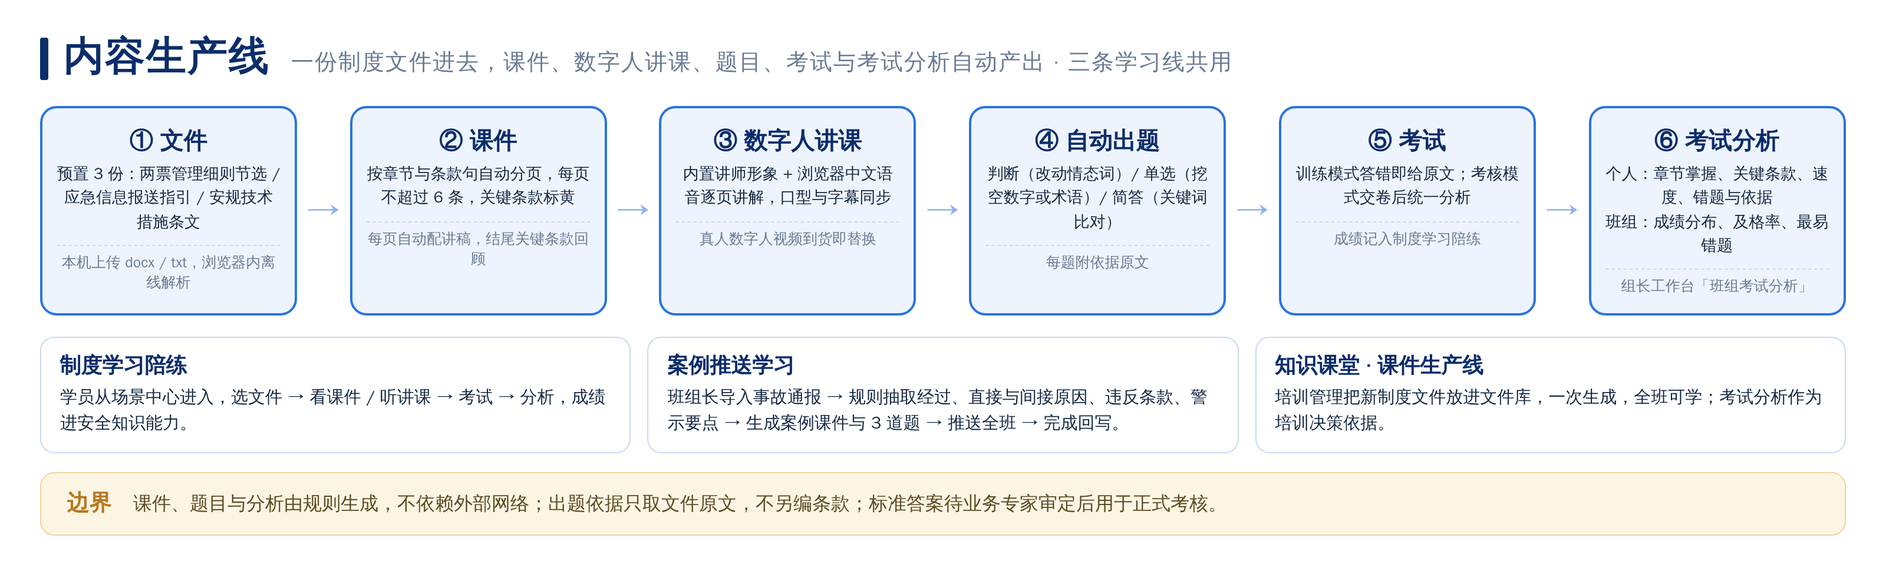
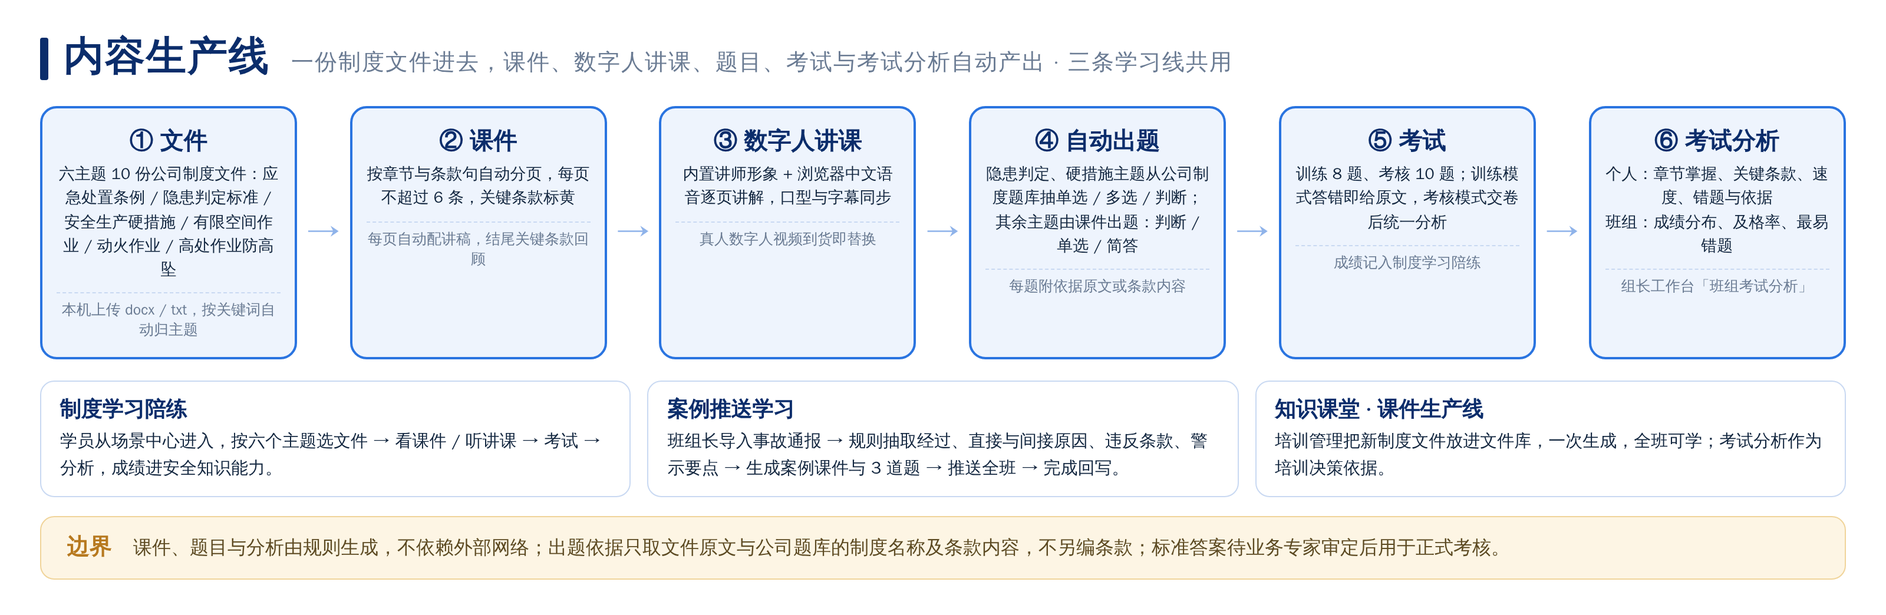
陪练架构图按 10/2 口径更新重渲染（35 项指标 / 四分组 / 题库 9324 题 / 六主题文件）；陪练 PPT V4 生图改为安全色编辑式拼贴（docs/06、docs/02 第 69 条 ⑩）
Claude-Session: https://claude.ai/code/session_01WkwtRBhr3xVnGf8uEM4Pxz

diff --git a/xiaowatt/peilian/diagrams/arch.html b/xiaowatt/peilian/diagrams/arch.html
@@ -9,11 +9,11 @@
 .ai b{font-size:20px;font-weight:800;color:var(--gold);white-space:nowrap}.ai span{font-size:16.5px;color:#5c4a22}
 .arrow{text-align:center;color:#8fb3ea;font-size:22px;line-height:1;margin:-6px 0 8px}
 </style></head><body><div class="board" id="board">
-<div class="ttl"><h1>安全学习智能陪练 总体架构</h1><span>六个陪练场景 · 四个能力维度 · 一条内容生产线 · 两级视角</span></div>
+<div class="ttl"><h1>安全学习智能陪练 总体架构</h1><span>六个陪练场景按四个能力分组 · 35 项指标汇成四维度与成熟度 · 一条内容生产线 · 两级视角</span></div>
 <div class="layer user"><h3>使用者<em>学员为主 · 班组长复核与下发</em></h3><div class="row c3"><div class="chip">学员<small>变电 / 配网一线生产人员</small></div><div class="chip">班组长<small>管理视角：复核 · 下发任务 · 导入通报</small></div><div class="chip">培训管理与系统管理<small>权限与口径（展示）</small></div></div></div>
-<div class="layer"><h3>应用层<em>十一个页面</em></h3><div class="row"><div class="row c6" style="margin-bottom:10px"><div class="chip hl">工作台</div><div class="chip hl">场景中心<small>六个陪练场景</small></div><div class="chip">AI 测评<small>个人评估报告</small></div><div class="chip">数据分析<small>班组横向对比</small></div><div class="chip">评分复盘</div><div class="chip">成长档案</div></div><div class="row c5"><div class="chip">知识课堂<small>课件生产线</small></div><div class="chip">案例推送学习</div><div class="chip">管理视角<small>组长工作台</small></div><div class="chip">系统与权限</div><div class="chip mute">讲师演示台<small>评审现场控制入口</small></div></div></div></div>
-<div class="layer"><h3>引擎层<em>规则引擎 · 离线可运行</em></h3><div class="row"><div class="row c6" style="margin-bottom:10px"><div class="chip hl">操作票判卷<small>步骤匹配 → 阶段 → 顺序 → 漏项 → 文字 → 危险</small></div><div class="chip hl">应急处置计分<small>要点 · 事例纠错 · 报送</small></div><div class="chip">安规知识<small>条文出题 · 依据指认</small></div><div class="chip">保命技能<small>排序 · 填空 · 禁止事项</small></div><div class="chip">案例分析<small>原因 · 违规 · 教训</small></div><div class="chip">制度学习<small>走内容生产线</small></div></div><div class="row c4"><div class="chip hl">内容生产线<small>文件 → 课件 → 讲课 → 出题 → 考试 → 分析</small></div><div class="chip">数字人讲师<small>内置形象 + 中文语音 · 真人视频接口</small></div><div class="chip">能力计算<small>六场景 25 项指标 → 四维度 → 成熟度</small></div><div class="chip">上传解析<small>Word / Excel / 文本 · 浏览器内离线</small></div></div></div></div>
-<div class="ai"><b>由人确认</b><span>成熟度分级、判卷标注、应急事例与四个新场景的标准答案均由本平台按安规、导则、处置卡拟定，经业务专家确认后使用；涉及人员能力的结论由班组长确认</span></div>
-<div class="layer"><h3>知识与数据层<em>全部脱敏 · 本机留痕</em></h3><div class="row c9"><div class="chip">安规 · 导则<small>19 条真实条文</small></div><div class="chip">标准操作票<small>58 行 · 7 个屏柜附表</small></div><div class="chip">应急处置卡<small>17 类 · 21 个情境</small></div><div class="chip">制度文件库<small>预置 3 份 + 上传</small></div><div class="chip">案例库<small>4 个 + 推送案例</small></div><div class="chip">演练记录<small>六场景 · 近 30 天</small></div><div class="chip">培训任务<small>下发 · 完成回写</small></div><div class="chip">考试记录<small>个人 · 班组</small></div><div class="chip">课件 · 题库<small>自动生成</small></div></div></div>
-<div class="layer ext"><h3>外部对接<em>评优后按公司要求确定</em></h3><div class="row c4"><div class="chip src">人工智能知识课堂<small>课程 · 题库 · 学时回写</small></div><div class="chip src">人资系统<small>作业授权 · 培训台账</small></div><div class="chip src">真人数字人视频<small>讲课片段到货即接入</small></div><div class="chip src">制度文件库<small>两票细则 · 报送指引 · 安规</small></div></div></div>
+<div class="layer"><h3>应用层<em>十一个页面</em></h3><div class="row"><div class="row c6" style="margin-bottom:10px"><div class="chip hl">工作台</div><div class="chip hl">场景中心<small>六个场景四个分组 · 专业切换</small></div><div class="chip">AI 测评<small>个人评估报告</small></div><div class="chip">数据分析<small>班组横向对比</small></div><div class="chip">评分复盘</div><div class="chip">成长档案</div></div><div class="row c5"><div class="chip">知识课堂<small>课件生产线</small></div><div class="chip">案例推送学习</div><div class="chip">管理视角<small>组长工作台</small></div><div class="chip">系统与权限</div><div class="chip mute">讲师演示台<small>评审现场控制入口</small></div></div></div></div>
+<div class="layer"><h3>引擎层<em>规则引擎 · 离线可运行</em></h3><div class="row"><div class="row c6" style="margin-bottom:10px"><div class="chip hl">操作票判卷<small>步骤匹配 → 阶段 → 顺序 → 漏项 → 文字 → 危险</small></div><div class="chip hl">应急处置计分<small>要点 · 事例纠错 · 报送</small></div><div class="chip">安规知识<small>公司题库抽题 · 依据指认 · 错题复练</small></div><div class="chip">保命技能<small>题库保命题型 · 六类计入雷达</small></div><div class="chip">案例分析<small>小 / 大案例逐题作答</small></div><div class="chip">制度学习<small>六主题文件 · 走内容生产线</small></div></div><div class="row c4"><div class="chip hl">内容生产线<small>文件 → 课件 → 讲课 → 出题 → 考试 → 分析</small></div><div class="chip">数字人讲师<small>内置形象 + 中文语音 · 真人视频接口</small></div><div class="chip">能力计算<small>六场景 35 项指标 → 四维度 → 成熟度</small></div><div class="chip">上传解析<small>Word / Excel / 文本 · 浏览器内离线</small></div></div></div></div>
+<div class="ai"><b>由人确认</b><span>成熟度分级、判卷标注、应急事例由本平台按安规、导则、处置卡拟定，经业务专家确认后使用；安规、保命、案例的答案与依据直接取自公司安规考试题库；涉及人员能力的结论由班组长确认</span></div>
+<div class="layer"><h3>知识与数据层<em>全部脱敏 · 本机留痕</em></h3><div class="row"><div class="row c6" style="margin-bottom:10px"><div class="chip hl">安规考试题库<small>27 个专业 · 9324 题</small></div><div class="chip">标准操作票<small>58 行 · 7 个屏柜附表</small></div><div class="chip">应急处置卡<small>17 类 · 21 个情境</small></div><div class="chip">制度文件库<small>六主题 10 份 + 上传</small></div><div class="chip">制度题库<small>512 题</small></div><div class="chip">安规 · 导则条文<small>两票判卷依据</small></div></div><div class="row c5"><div class="chip">案例<small>题库小 / 大案例 · 推送通报</small></div><div class="chip">演练记录<small>六场景 · 近 30 天</small></div><div class="chip">培训任务<small>下发 · 完成回写</small></div><div class="chip">考试记录<small>个人 · 班组</small></div><div class="chip">课件 · 题库<small>自动生成</small></div></div></div></div>
+<div class="layer ext"><h3>外部对接<em>评优后按公司要求确定</em></h3><div class="row c4"><div class="chip src">人工智能知识课堂<small>课程 · 题库 · 学时回写</small></div><div class="chip src">人资系统<small>作业授权 · 培训台账</small></div><div class="chip src">真人数字人视频<small>讲课片段到货即接入</small></div><div class="chip src">公司制度文件库<small>新制度发布即入库</small></div></div></div>
 </div></body></html>

diff --git a/xiaowatt/peilian/diagrams/tech.html b/xiaowatt/peilian/diagrams/tech.html
@@ -21,11 +21,11 @@
 <div class="ttl"><h1>安全学习智能陪练 技术与数据架构</h1><span>依托公司自主平台建设 · 判卷计分规则可配置可解释 · 结论由人确认</span></div>
 <div class="wrap"><div>
 <div class="layer l1"><div class="lb">用户层</div><div class="cells c3"><div class="chip">学员<small>六个陪练场景 · 个人报告 · 成长档案</small></div><div class="chip">班组长<small>复核 · 下发任务 · 导入通报 · 班组分析</small></div><div class="chip">培训管理与系统管理<small>课件生产线 · 口径确认 · 权限</small></div></div></div>
-<div class="layer l2"><div class="lb">应用层<small>十一个页面</small></div><div class="cells c5"><div class="chip">工作台 · 场景中心<small>标语 · 案例推送 · 六场景入口</small></div><div class="chip">AI 测评 · 数据分析<small>个人报告 · 班组横向对比</small></div><div class="chip">评分复盘 · 成长档案<small>记录 · 目标 · 曲线</small></div><div class="chip">知识课堂<small>课件生产线 · 课程 · 测验</small></div><div class="chip">管理视角 · 系统与权限<small>组长工作台 · 三类角色</small></div></div></div>
-<div class="layer l3"><div class="lb">能力层</div><div class="cells c4"><div class="chip">判卷与计分规则引擎<small>操作票六步判卷 · 应急三步计分 · 四场景判定 · 扣分值可配置</small></div><div class="chip">内容生产线<small>分页课件 · 自动出题 · 考试 · 考试分析</small></div><div class="chip">大模型能力<small>情境生成 · 讲稿组织 · 点评语言 · 通报要点抽取</small></div><div class="chip">数字人讲师 · 语音<small>内置形象 + 中文语音 · 真人视频接口 · 口述作答</small></div></div></div>
-<div class="layer l4"><div class="lb">模型层</div><div class="cells c4"><div class="chip">六场景 25 项指标<small>两票 5 · 应急 4 · 安规 4 · 保命 4 · 案例 4 · 制度 4</small></div><div class="chip">四维度 → 成熟度<small>最近 3 次均值 · 待提升 / 合格 / 熟练 / 精通</small></div><div class="chip">标准操作票标注<small>58 行 · 3 个状态阶段 · 23 个换序组 · 6 条危险规则</small></div><div class="chip">应急处置卡与报送<small>17 类 21 情境 · 要点 / 注意事项 / 报送五项</small></div></div></div>
-<div class="layer l5"><div class="lb">数据层<small>本机留痕</small></div><div class="cells c4"><div class="chip">演练记录<small>六场景 · 逐项判定 · 作答回看</small></div><div class="chip">考试与案例<small>考试记录 · 推送案例 · 完成回写</small></div><div class="chip">课件 · 题库 · 文件库<small>自动生成 · 每题附原文</small></div><div class="chip">培训任务 · 复核<small>下发 · 完成 · 复核结论</small></div></div></div>
-<div class="layer l6"><div class="lb">数据来源</div><div class="cells c4"><div class="chip src">制度文件库<small>安规 · 导则 · 两票细则 · 报送指引</small></div><div class="chip src">业务素材<small>考核站试卷 · 典型票 · 处置卡 · 通报</small></div><div class="chip src">人工智能知识课堂<small>课程 · 题库 · 学时回写</small></div><div class="chip src">人资系统<small>作业授权 · 培训台账</small></div></div></div>
+<div class="layer l2"><div class="lb">应用层<small>十一个页面</small></div><div class="cells c5"><div class="chip">工作台 · 场景中心<small>标语 · 案例推送 · 四组六场景 · 专业切换</small></div><div class="chip">AI 测评 · 数据分析<small>个人报告 · 班组横向对比</small></div><div class="chip">评分复盘 · 成长档案<small>记录 · 目标 · 曲线</small></div><div class="chip">知识课堂<small>课件生产线 · 课程 · 测验</small></div><div class="chip">管理视角 · 系统与权限<small>组长工作台 · 三类角色</small></div></div></div>
+<div class="layer l3"><div class="lb">能力层</div><div class="cells c4"><div class="chip">判卷与计分规则引擎<small>操作票六步判卷 · 应急三步计分 · 题库作答判定 · 扣分值可配置</small></div><div class="chip">内容生产线<small>分页课件 · 自动出题 · 考试 · 考试分析</small></div><div class="chip">大模型能力<small>情境生成 · 讲稿组织 · 点评语言 · 通报要点抽取</small></div><div class="chip">数字人讲师 · 语音<small>内置形象 + 中文语音 · 真人视频接口 · 口述作答</small></div></div></div>
+<div class="layer l4"><div class="lb">模型层</div><div class="cells c4"><div class="chip">六场景 35 项指标<small>两票 5 · 应急 6 · 安规 6 · 保命 6 · 案例 6 · 制度 6</small></div><div class="chip">四维度 → 成熟度<small>最近 3 次均值 · 待提升 / 合格 / 熟练 / 精通</small></div><div class="chip">标准操作票标注<small>58 行 · 3 个状态阶段 · 23 个换序组 · 6 条危险规则</small></div><div class="chip">应急处置卡与报送<small>17 类 21 情境 · 要点 / 注意事项 / 报送五项</small></div></div></div>
+<div class="layer l5"><div class="lb">数据层<small>本机留痕</small></div><div class="cells c4"><div class="chip">演练记录<small>六场景 · 逐项判定 · 作答回看</small></div><div class="chip">考试与案例<small>考试记录 · 推送案例 · 完成回写</small></div><div class="chip">课件 · 题库 · 文件库<small>安规考试题库 9324 题 · 制度题库 512 题 · 六主题文件</small></div><div class="chip">培训任务 · 复核<small>下发 · 完成 · 复核结论</small></div></div></div>
+<div class="layer l6"><div class="lb">数据来源</div><div class="cells c4"><div class="chip src">制度文件库<small>六主题 10 份制度文件 · 安规 · 导则</small></div><div class="chip src">业务素材<small>考核站试卷 · 典型票 · 处置卡 · 安规考试题库 · 通报</small></div><div class="chip src">人工智能知识课堂<small>课程 · 题库 · 学时回写</small></div><div class="chip src">人资系统<small>作业授权 · 培训台账</small></div></div></div>
 </div>
 <div class="side"><div class="plat"><h3>公司自主平台</h3><div class="it"><b>电力人工智能创新平台</b><span>大瓦特大模型：情境生成、讲稿与点评语言组织、通报要点抽取</span></div><div class="it"><b>数字人服务</b><span>讲师形象与真人数字人视频</span></div><div class="it"><b>公司内网部署</b><span>数据不出域 · 演示环境单文件离线可运行</span></div></div>
 <div class="gov"><h3>安全与治理</h3><ul><li>依据条款只引真实条文，检索不到提示人工复核</li><li>判卷标注与标准答案经业务专家审定后用于正式考核</li><li>成熟度与能力结论由班组长确认后使用</li><li>人员与成绩全部脱敏，按角色分级授权</li><li>扣分值、危险操作清单为配置项，程序不写死</li><li>标准票发布后冻结并带版本号</li></ul></div></div>

diff --git a/xiaowatt/peilian/diagrams/ability.html b/xiaowatt/peilian/diagrams/ability.html
@@ -18,22 +18,22 @@
 </style></head><body><div class="board" id="board">
 <div class="ttl"><h1>安全能力体系与成长闭环</h1><span>六个陪练场景 → 四个能力维度 → 安全能力成熟度 · 每一次陪练都留痕、都算分、都回到培训决策</span></div>
 <div class="gridc">
-  <div class="col"><h3>六个陪练场景<em>每场景 4–5 项指标，共 25 项</em></h3>
+  <div class="col"><h3>六个陪练场景<em>按四个能力分组 · 每场景 5–6 项指标，共 35 项</em></h3>
+    <div class="sc">安规知识陪练<small>基本要求与人员条件 · 工作票与许可 · 倒闸操作与防误 · 保证安全的技术措施 · 带电与特殊作业 · 应急与消防</small></div>
+    <div class="sc">制度学习陪练<small>应急处置条例 · 隐患判定标准 · 安全生产硬措施 · 有限空间作业 · 动火作业 · 高处作业防高坠</small></div>
     <div class="sc">两票填写陪练<small>操作顺序 · 漏项控制 · 文字规范 · 危险辨识 · 二次与压板</small></div>
-    <div class="sc">保命技能陪练<small>步骤顺序 · 要点完整 · 禁止事项辨识 · 作答速度</small></div>
-    <div class="sc">安规知识陪练<small>条款理解 · 依据引用 · 作答速度 · 易错巩固</small></div>
-    <div class="sc">制度学习陪练<small>制度掌握 · 关键条款 · 学习完成 · 作答速度</small></div>
-    <div class="sc">应急处置陪练<small>快速决策 · 知识储备 · 风险识别 · 高效上报</small></div>
-    <div class="sc">案例分析陪练<small>原因分析 · 违规辨识 · 措施与教训 · 条款对照</small></div></div>
+    <div class="sc">保命技能陪练<small>安全距离与防触电 · 停电验电接地 · 个人防护与工器具 · 高处起重与特殊作业 · 作业许可与监护 · 应急与急救</small></div>
+    <div class="sc">应急处置陪练<small>人身伤害 · 触电 · 火灾 · 自然灾害 · 野外与交通 · 公共卫生与社会安全</small></div>
+    <div class="sc">案例分析陪练<small>事故定性与隐患识别 · 原因分析 · 违规辨识 · 责任与职责 · 防范措施与教训 · 规程依据</small></div></div>
   <div class="ar">→</div>
   <div class="col"><h3>四个能力维度<em>维度分 = 所属场景最近 3 次均值</em></h3>
-    <div class="dim">安全作业能力<small>两票填写 · 保命技能</small></div>
     <div class="dim">安全知识能力<small>安规知识 · 制度学习</small></div>
+    <div class="dim">安全作业能力<small>两票填写 · 保命技能</small></div>
     <div class="dim">应急处置能力<small>应急处置</small></div>
     <div class="dim">警示复盘能力<small>案例分析</small></div></div>
   <div class="ar">→</div>
   <div class="col"><h3>安全能力成熟度<em>四维度平均 · 由班组长确认后使用</em></h3>
     <div class="mat"><b>安全能力成熟度</b><span>个人：AI 测评报告<br>班组：横向对比与共性短板<br>培训决策：下发任务 → 再陪练</span><div class="lv"><div>待提升<br>&lt;60</div><div>合格<br>60–74</div><div>熟练<br>75–89</div><div>精通<br>≥90</div></div></div></div>
 </div>
-<div class="loop"><b>成长闭环</b><div class="steps"><div class="chip">陪练作答<small>口述 · 填写 · 排序 · 勾选</small></div><div class="chip">即时判定<small>逐项给依据条款</small></div><div class="chip">成绩入档<small>评分复盘 · 成长档案</small></div><div class="chip">能力更新<small>指标 → 维度 → 成熟度</small></div><div class="chip">班组长复核<small>下发任务 · 推送案例</small></div><div class="chip">再陪练<small>错题复练 · 目标达成</small></div></div></div>
+<div class="loop"><b>成长闭环</b><div class="steps"><div class="chip">陪练作答<small>口述 · 填写 · 选答 · 勾选</small></div><div class="chip">即时判定<small>逐项给依据条款</small></div><div class="chip">成绩入档<small>评分复盘 · 成长档案</small></div><div class="chip">能力更新<small>指标 → 维度 → 成熟度</small></div><div class="chip">班组长复核<small>下发任务 · 推送案例</small></div><div class="chip">再陪练<small>错题复练 · 目标达成</small></div></div></div>
 </div></body></html>

diff --git a/xiaowatt/peilian/diagrams/pipeline.html b/xiaowatt/peilian/diagrams/pipeline.html
@@ -12,12 +12,12 @@
 </style></head><body><div class="board" id="board">
 <div class="ttl"><h1>内容生产线</h1><span>一份制度文件进去，课件、数字人讲课、题目、考试与考试分析自动产出 · 三条学习线共用</span></div>
 <div class="flow">
-<div class="st"><b>① 文件</b><span>预置 3 份：两票管理细则节选 / 应急信息报送指引 / 安规技术措施条文</span><i>本机上传 docx / txt，浏览器内离线解析</i></div><div class="ar">→</div>
+<div class="st"><b>① 文件</b><span>六主题 10 份公司制度文件：应急处置条例 / 隐患判定标准 / 安全生产硬措施 / 有限空间作业 / 动火作业 / 高处作业防高坠</span><i>本机上传 docx / txt，按关键词自动归主题</i></div><div class="ar">→</div>
 <div class="st"><b>② 课件</b><span>按章节与条款句自动分页，每页不超过 6 条，关键条款标黄</span><i>每页自动配讲稿，结尾关键条款回顾</i></div><div class="ar">→</div>
 <div class="st"><b>③ 数字人讲课</b><span>内置讲师形象 + 浏览器中文语音逐页讲解，口型与字幕同步</span><i>真人数字人视频到货即替换</i></div><div class="ar">→</div>
-<div class="st"><b>④ 自动出题</b><span>判断（改动情态词）/ 单选（挖空数字或术语）/ 简答（关键词比对）</span><i>每题附依据原文</i></div><div class="ar">→</div>
-<div class="st"><b>⑤ 考试</b><span>训练模式答错即给原文；考核模式交卷后统一分析</span><i>成绩记入制度学习陪练</i></div><div class="ar">→</div>
+<div class="st"><b>④ 自动出题</b><span>隐患判定、硬措施主题从公司制度题库抽单选 / 多选 / 判断；其余主题由课件出题：判断 / 单选 / 简答</span><i>每题附依据原文或条款内容</i></div><div class="ar">→</div>
+<div class="st"><b>⑤ 考试</b><span>训练 8 题、考核 10 题；训练模式答错即给原文，考核模式交卷后统一分析</span><i>成绩记入制度学习陪练</i></div><div class="ar">→</div>
 <div class="st"><b>⑥ 考试分析</b><span>个人：章节掌握、关键条款、速度、错题与依据<br>班组：成绩分布、及格率、最易错题</span><i>组长工作台「班组考试分析」</i></div></div>
-<div class="uses"><div class="use"><b>制度学习陪练</b><span>学员从场景中心进入，选文件 → 看课件 / 听讲课 → 考试 → 分析，成绩进安全知识能力。</span></div><div class="use"><b>案例推送学习</b><span>班组长导入事故通报 → 规则抽取经过、直接与间接原因、违反条款、警示要点 → 生成案例课件与 3 道题 → 推送全班 → 完成回写。</span></div><div class="use"><b>知识课堂 · 课件生产线</b><span>培训管理把新制度文件放进文件库，一次生成，全班可学；考试分析作为培训决策依据。</span></div></div>
-<div class="ai"><b>边界</b><span>课件、题目与分析由规则生成，不依赖外部网络；出题依据只取文件原文，不另编条款；标准答案待业务专家审定后用于正式考核。</span></div>
+<div class="uses"><div class="use"><b>制度学习陪练</b><span>学员从场景中心进入，按六个主题选文件 → 看课件 / 听讲课 → 考试 → 分析，成绩进安全知识能力。</span></div><div class="use"><b>案例推送学习</b><span>班组长导入事故通报 → 规则抽取经过、直接与间接原因、违反条款、警示要点 → 生成案例课件与 3 道题 → 推送全班 → 完成回写。</span></div><div class="use"><b>知识课堂 · 课件生产线</b><span>培训管理把新制度文件放进文件库，一次生成，全班可学；考试分析作为培训决策依据。</span></div></div>
+<div class="ai"><b>边界</b><span>课件、题目与分析由规则生成，不依赖外部网络；出题依据只取文件原文与公司题库的制度名称及条款内容，不另编条款；标准答案待业务专家审定后用于正式考核。</span></div>
 </div></body></html>

diff --git a/xiaowatt/docs/06_陪练PPT_V4视觉区分与页序.md b/xiaowatt/docs/06_陪练PPT_V4视觉区分与页序.md
@@ -1,27 +1,23 @@
 # 陪练 PPT V4 生图 · 与班组长 PPT 的视觉区分 + 页序
 
-班组长 PPT 是"大场景实景照片 + 工程图纸线稿，左右分栏斜向溶解"。陪练 PPT 不沿用这套，整体换成另一种画面语言：
+班组长 PPT 是"大场景实景照片 + 工程图纸线稿，左右分栏斜向溶解，深蓝铜金"。陪练 PPT 前两版（墨绿换色版、沙盘舞台版）都被用户否决：前者骨架相同，后者"多几页就单调"（每页上浅下深 + 一排米绿卡，只有墨绿金两色）。现行方案：
 
-**"实训沙盘微缩摄影 + 金色全息训练层，居中舞台式构图"**
+**「安全色 · 编辑式拼贴」**
 
-| 维度 | 班组长（已生成） | 陪练（本轮） |
+| 维度 | 班组长（已生成） | 陪练（现行） |
 |---|---|---|
-| 画面语言 | 真实大场景摄影 + 深蓝蓝图线稿，虚实对半 | 实体沙盘模型的移轴微缩摄影（真实材质、真实景深）+ 悬浮的半透明金色全息薄片（雷达、题卡、操作票），实在下、虚在上 |
-| 构图 | 左右分栏，照片斜向溶解成线稿 | 居中舞台式：上 60% 浅米绿背景，下 40% 墨绿哑光台面，沙盘居中，内容卡环绕或左右对称分列 |
-| 标题 | 顶部 15% 米白带，左对齐 | 顶部居中，英文与导语条居中，导语条金描边药丸 |
-| 底 | 米白图纸底 + 细网格 | 浅米绿 #F3F5F0 柔和渐变 + 极淡等高线纹；台面墨绿 #1F5C4A 带金色细刻线 |
-| 主色 / 暖色 | 深蓝 #00367A / 铜金 #B8862B、琥珀橙 #E08A2E | 墨绿 #1F5C4A / 金 #C9A227、安全橙 #E8641B |
-| 点缀 | 紫罗兰、墨绿、暖红 | 荧光黄 #F2C14E（反光条、围栏）、信号红 #C0392B（标示牌边、事故，极少）、石墨灰 #5A6670（设备、应用前） |
-| 科技光 | 青蓝 #4FA3FF 数据光 | 金色 #E3B341 全息光（薄片描边与连线） |
-| 面板 | 开关柜门板、工作票、班组看板 | 浅米绿圆角训练卡（金描边、轻微悬浮投影落在台面上）、全息薄片、空白标示牌 |
-| 连接件 | 母线 + 断路器方框、带垂度导线 + 绝缘子 | 金色细光线（沙盘位置 → 卡片）、台面等高线刻纹、成熟度四级台阶（沙盘上的实体台阶） |
-| 序号 / 指示 | 圆形指示灯、段落色圆徽 | 墨绿圆徽金描边；安全帽色点（白 / 蓝 / 红 / 黄） |
-| 大数字 | 圆形电表盘 | 雷达图 / 半环仪表（demo 同款） |
-| 母题 | 电杆、横担、绝缘子、环网柜、抢修车、铁塔、深圳天际线 | 微缩变电站（主变、门型架、隔离开关、GIS 室、开关室、主控室）、微缩培训教室截面与数字人大屏、微缩人物（深蓝工装、反光条、安全帽、橙色绝缘手套、验电笔）、安全围栏、空白标示牌、操作票 |
-| 光线 | 清晨 / 傍晚暖光，户外 | 摄影棚柔和顶光，冷白为主，全息层金色 |
+| 画面语言 | 实景照片斜向溶解成蓝图线稿 | 大色块（丝网印刷颗粒、半调网点、轻微套印错位）+ 全彩实拍人物 / 设备抠图跨在色块边上 + 白色极细技术标注线（只有空心圆和短横线，不写字） |
+| 配色 | 深蓝 #00367A / 铜金 / 琥珀橙，傍晚暖光 | 国标安全色：安全红 #D7262C（事故 / 禁止）、安全蓝 #1B5EAB（规程 / 系统）、安全黄 #F2B61B（警示 / 训练中）、安全绿 #1E8E5A（合格 / 能力）、应急橙 #F26B1D（应急）+ 墨黑 #1C1C1C、白、浅暖灰纸底 #F2F1EC。每页至少三种彩色，一种主色占六成，相邻页主色不同 |
+| 版式 | 顶部米白标题带 + 左右分栏，页页同构 | 五种母版轮换：A 斜切分区 / B 圆窗（禁止标志的圆装照片）/ C 楔形放射（警告三角，步骤路径）/ D 指令牌网格（表格多项）/ E 全幅实拍 + 色带（封面目录结尾） |
+| 标题 | 米白带内左对齐，导语药丸 | 主色色块内白字 Heavy 黑体，色块下压一条黄黑斜纹细带；英文墨黑小字 |
+| 文字载体 | 开关柜门板、工作票、班组看板 | 指令牌方块、白色票据卡、色块内直排、警示带分隔 |
+| 实拍 | 户外城市与配网，清晨傍晚 | 变电运行与培训场景（GIS 室、开关室、主控室、班前会、培训教室、实训基地、应急演练），冷白光；背景照片可按主色做双色调，前景主体全彩 |
+| 母题 | 电杆、横担、绝缘子、环网柜、抢修车 | 安全帽、绝缘手套、验电笔、操作票夹板、安全围栏、黄黑 / 红白警示带、禁止圆与指令方 |
 | 场景单位 | 光明供电局配网资产部 | 福田供电局变电运行班组 |
 
-不变的：16:9 2560×1440；四周无框线十字；右上 12%×10% 留 logo；底部 4% 留页码；文字逐字准确；截图 / 架构图页带【参考图】段按原图比例留屏；无模块编码、无页脚三件套；不用齿轮 / 管道 / 铆钉 / 压力表 / 核工业元素；不要卡通感、塑料感、霓虹。
+33 页轮换表（版式 · 主色 · 实拍）见会话中给用户的表；原则：相邻页版式与主色都不同，截图 / 架构图页仍带【参考图】段按原图比例留屏。
+
+不变的：16:9 2560×1440；四周无框线十字；右上 12%×10% 留 logo；底部 4% 留页码；文字逐字准确；无模块编码、无页脚三件套；不用齿轮 / 管道 / 铆钉 / 压力表 / 核工业元素，不用盾牌 / 锁 / 警示三角等通用图标；不要卡通感、塑料感、霓虹。
 
 ## 页序（33 页，与 V3.0 生成器一致）
 

diff --git a/xiaowatt/docs/02_已定决策.md b/xiaowatt/docs/02_已定决策.md
@@ -290,6 +290,8 @@
    - 删除：原自编安规出题（`rules.js` 19 条仍用于两票判卷的依据引用）、保命五技能排序 / 填空、案例四方面自由作答与 4 个预置案例、预置的两票细则 / 报送指引 / 安规条文三份文件。
    - 单文件 dist 约 9.6 MB（27 个专业题库内置约 3.5 MB）。**申报书已按新口径同步（10/2，`docgen/gen_sbs.py` 重生成）**：场景四分组、题库 27 专业 9324 题、维度 35 项、六主题 10 份制度文件与制度题库 512 题、工作台顺序、各场景页面与交互表、数据表（安规考试题库 / 制度题库两行）；**PPT V3.0 已同步（10/2，`gen_ppt_peilian_tpl.py` 重生成）**：核心优势五卡改为 6 场景四分组 / 35 项指标 / 58 行标准票 / 9324 题题库 / 6 步生产线，实现路径、数据来源表、场景功能页、应用成效对比表、推广与价值页按同一口径；预览重出。
 
+   ⑩ **陪练四张架构图按本条 ⑨ 口径更新（10/2）**：`peilian/diagrams/{arch,tech,ability,pipeline}.html` 改为 35 项指标（两票 5 · 其余各 6）、四分组顺序与新维度名、安规考试题库 27 专业 9324 题、制度题库 512 题、六主题 10 份制度文件、题库作答判定；`render.cjs` 重出 `out/*.png`（总体架构 1.65:1、技术与数据架构 1.98:1、能力体系 2.13:1、内容生产线 3.07:1）。V3.0 PPT 内嵌的仍是 10/1 旧图，客户模板原件不在库中，待装 V4 版时用新图；申报书不含这四张图。
+
 70. **项目二 10/2 客户意见（班组长 demo，截图标注）**：
    ① 右栏数字形象改称**大瓦特**（原「小瓦特」；界面文字全部改：右栏名牌、左栏「问大瓦特」、「大瓦特在想」「大瓦特的观察」「让大瓦特讲讲」「面谈提纲由大瓦特起草」、悬浮按钮、工作日志里的助手名）。文件名 / 变量名（`xw.js`、`assets/xiaowatt/`、`XW_IMGS`）与工作区名「小瓦特」不动；对外叙事「大瓦特练机器，小瓦特练人」以后不再用于项目二界面。
    ② 班员画像与管理者结构对比里的「岗位结构」改**岗位层级**（班长 / 技术员 · 高级 · 中级 · 初级）。
